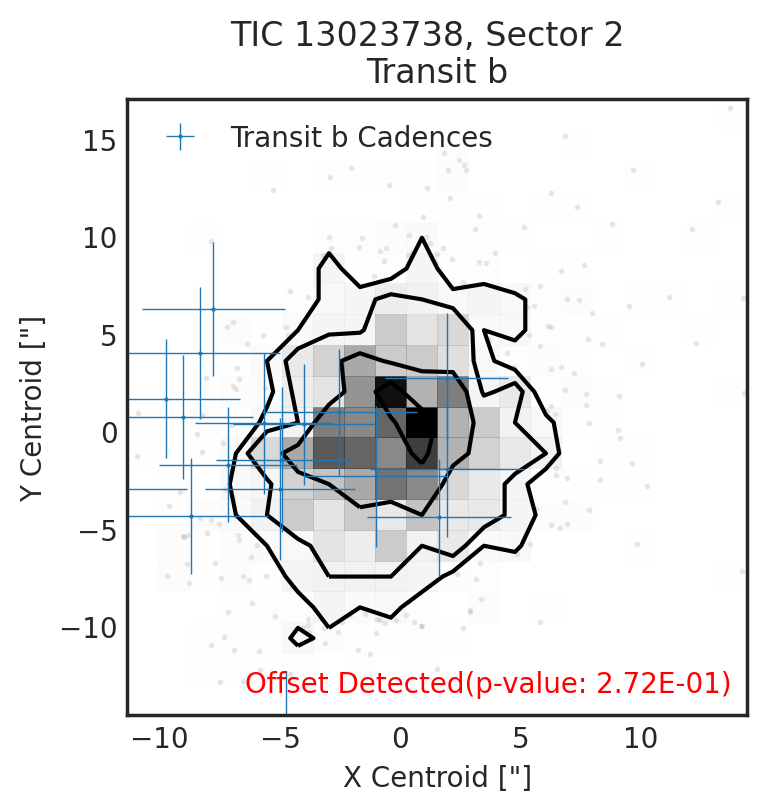
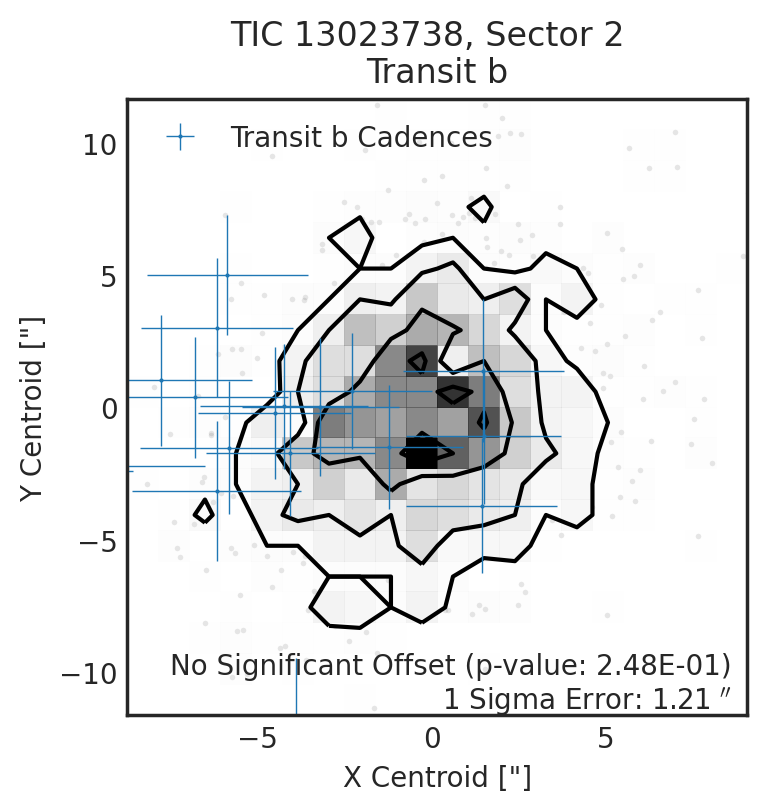
fixing timescale issue

diff --git a/src/vetting/centroiding.py b/src/vetting/centroiding.py
@@ -38,6 +38,7 @@ def centroid_test(
     nsamp=100,
     transit_depths=None,
     labels=None,
+    sff_timescale=3,
 ):
     """
     Runs a simple centroiding test on TPFs for input period, t0 and durations of transiting planet candidates.
@@ -78,6 +79,8 @@ def centroid_test(
         labels: None, list of strings, string
             Optional. Label for each planet in plots. If None, will generate labels in sequential order. e.g. pass `'bcd'` to label
             planets. Must same length as periods.
+        sff_timescale: float
+            The time to use for detrending the centroids using SFF method
     Returns
     -------
         r : dict
@@ -186,7 +189,7 @@ def centroid_test(
                 bins=10,
                 cadence_mask=t_mask,
                 propagate_errors=True,
-                timescale=10,
+                timescale=sff_timescale,
             )
             xcent[:, 0] -= s.model_lc.flux.value
 
@@ -204,7 +207,7 @@ def centroid_test(
                 bins=10,
                 cadence_mask=t_mask,
                 propagate_errors=True,
-                timescale=10,
+                timescale=sff_timescale,
             )
             ycent[:, 0] -= s.model_lc.flux.value
 

diff --git a/src/vetting/version.py b/src/vetting/version.py
@@ -1,3 +1,3 @@
 # It is important to store the version number in a separate file
 # so that we can read it from setup.py without importing the package
-__version__ = "0.2"
+__version__ = "0.3"
